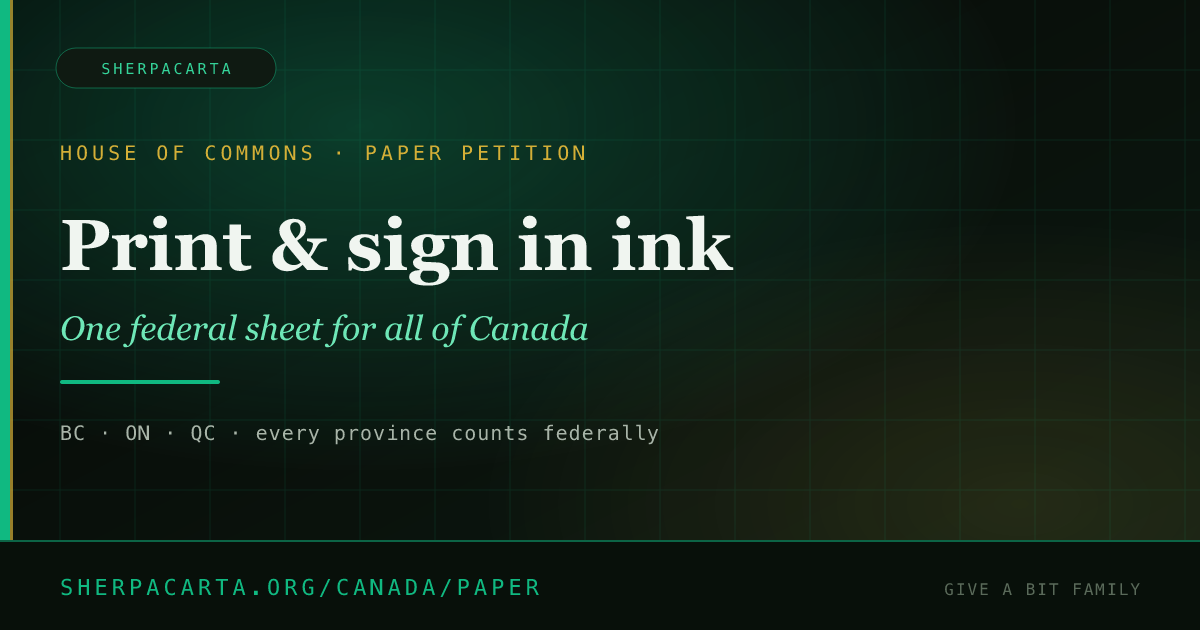
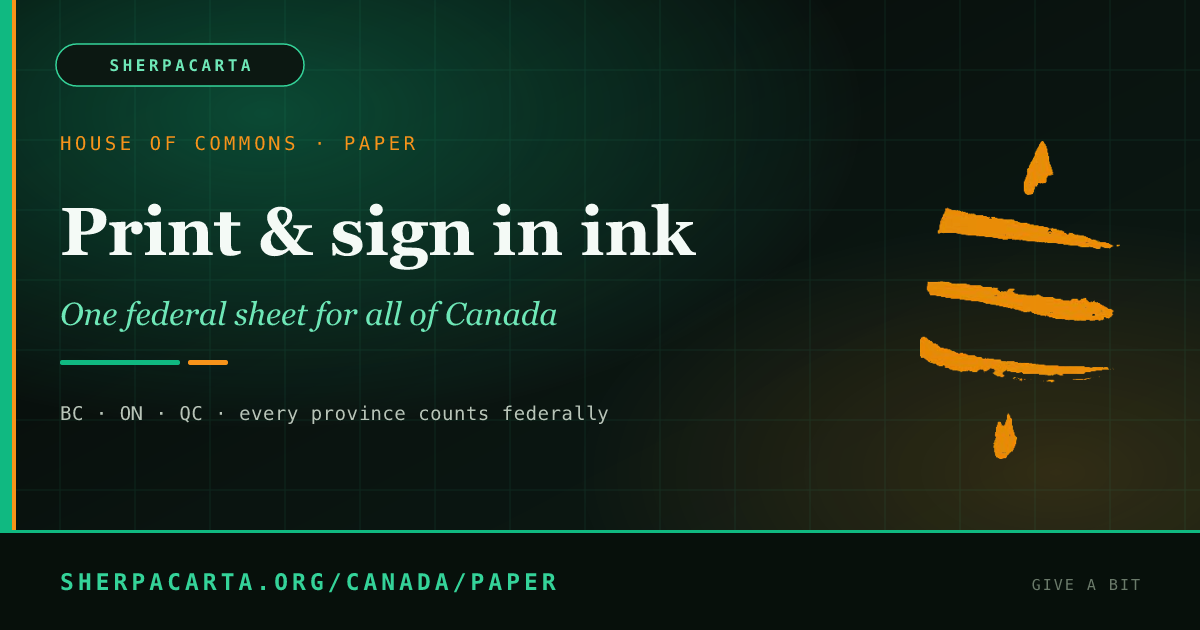
feat: compelling OG/Twitter social cards with brand mark
Regenerate 1200×630 cards (incl. discuss.png for /nostr), embed brand
mark, bump cache-bust v=740, apply summary_large_image meta on all pages
so X/WhatsApp/Telegram show a full image preview when sharing.

diff --git a/public/nostr.html b/public/nostr.html
@@ -4,16 +4,34 @@
 <meta charset="UTF-8">
 <meta name="viewport" content="width=device-width, initial-scale=1.0">
 <title>Public discussion — Nostr + X #Sherpacarta — SherpaCarta</title>
-<meta name="description" content="Live public discussion on Nostr and X #Sherpacarta. Follow @give_bit · sherpa@giveabit.io. Toward Canada’s official e-petition path.">
+<!-- ═══ SOCIAL PREVIEW META (auto) ═══ -->
+<meta property="og:type" content="website">
+<meta property="og:site_name" content="SherpaCarta">
+<meta property="og:locale" content="en_CA">
+<meta property="og:url" content="https://sherpacarta.org/nostr">
+<meta property="og:title" content="Public discussion — Nostr + X #Sherpacarta">
+<meta property="og:description" content="Live walls on Nostr and X. Follow @give_bit · sherpa@giveabit.io · #Sherpacarta. Digital rights in the public square.">
+<meta property="og:image" content="https://sherpacarta.org/og/discuss.png?v=740">
+<meta property="og:image:secure_url" content="https://sherpacarta.org/og/discuss.png?v=740">
+<meta property="og:image:type" content="image/png">
+<meta property="og:image:width" content="1200">
+<meta property="og:image:height" content="630">
+<meta property="og:image:alt" content="Public discussion — Nostr + X #Sherpacarta">
+<meta name="twitter:card" content="summary_large_image">
+<meta name="twitter:site" content="@give_bit">
+<meta name="twitter:creator" content="@give_bit">
+<meta name="twitter:url" content="https://sherpacarta.org/nostr">
+<meta name="twitter:title" content="Public discussion — Nostr + X #Sherpacarta">
+<meta name="twitter:description" content="Live walls on Nostr and X. Follow @give_bit · sherpa@giveabit.io · #Sherpacarta. Digital rights in the public square.">
+<meta name="twitter:image" content="https://sherpacarta.org/og/discuss.png?v=740">
+<meta name="twitter:image:alt" content="Public discussion — Nostr + X #Sherpacarta">
+<meta name="description" content="Live walls on Nostr and X. Follow @give_bit · sherpa@giveabit.io · #Sherpacarta. Digital rights in the public square.">
+<!-- ═══ /SOCIAL PREVIEW META ═══ -->
 <meta name="theme-color" content="#050806">
 <link rel="icon" href="/favicon.png?v=739" type="image/png" sizes="48x48">
 <link rel="icon" href="/brand-mark.png?v=739" type="image/png" sizes="any">
 <link rel="apple-touch-icon" href="/apple-touch-icon.png?v=739">
 <link rel="canonical" href="https://sherpacarta.org/nostr">
-<meta property="og:title" content="Public discussion — Nostr + X #Sherpacarta">
-<meta property="og:description" content="Live walls on Nostr and X. Follow @give_bit · sherpa@giveabit.io · #Sherpacarta">
-<meta property="og:url" content="https://sherpacarta.org/nostr">
-<meta property="og:image" content="https://sherpacarta.org/og/default.png?v=724">
 <link rel="stylesheet" href="/fonts/fonts.css?v=740">
 <link rel="stylesheet" href="/vendor/fontawesome/css/all.min.css?v=740">
 <link rel="stylesheet" href="/sc-main.css?v=740">

diff --git a/public/treasury.html b/public/treasury.html
@@ -4,16 +4,29 @@
 <meta charset="UTF-8">
 <meta name="viewport" content="width=device-width, initial-scale=1.0">
 <title>Treasury — Transparent Bitcoin Funding — SherpaCarta</title>
-<meta name="description" content="Bitcoin-funded only. Live on-chain transparency. Lightning balance on HQ wallet sherpacarta; public LNURL pending. No VC, no ads, no government grants.">
+<!-- ═══ SOCIAL PREVIEW META (auto) ═══ -->
 <meta property="og:type" content="website">
 <meta property="og:site_name" content="SherpaCarta">
-<meta property="og:url" content="https://sherpacarta.org/treasury">
+<meta property="og:locale" content="en_CA">
+<meta property="og:url" content="https://sherpacarta.org/treasury.html">
 <meta property="og:title" content="Treasury — SherpaCarta">
-<meta property="og:description" content="Bitcoin-funded only. Live on-chain transparency. No VC, no ads, no government grants.">
-<meta property="og:image" content="https://sherpacarta.org/og/treasury.png?v=731">
+<meta property="og:description" content="Bitcoin-funded only. Live on-chain transparency. No VC, no ads, no government grants. Fund digital human rights.">
+<meta property="og:image" content="https://sherpacarta.org/og/treasury.png?v=740">
+<meta property="og:image:secure_url" content="https://sherpacarta.org/og/treasury.png?v=740">
+<meta property="og:image:type" content="image/png">
+<meta property="og:image:width" content="1200">
+<meta property="og:image:height" content="630">
+<meta property="og:image:alt" content="Treasury — SherpaCarta">
 <meta name="twitter:card" content="summary_large_image">
+<meta name="twitter:site" content="@give_bit">
+<meta name="twitter:creator" content="@give_bit">
+<meta name="twitter:url" content="https://sherpacarta.org/treasury.html">
 <meta name="twitter:title" content="Treasury — SherpaCarta">
-<meta name="twitter:image" content="https://sherpacarta.org/og/treasury.png?v=731">
+<meta name="twitter:description" content="Bitcoin-funded only. Live on-chain transparency. No VC, no ads, no government grants. Fund digital human rights.">
+<meta name="twitter:image" content="https://sherpacarta.org/og/treasury.png?v=740">
+<meta name="twitter:image:alt" content="Treasury — SherpaCarta">
+<meta name="description" content="Bitcoin-funded only. Live on-chain transparency. No VC, no ads, no government grants. Fund digital human rights.">
+<!-- ═══ /SOCIAL PREVIEW META ═══ -->
 <link rel="canonical" href="https://sherpacarta.org/treasury">
 <meta name="theme-color" content="#050806">
 <link rel="icon" href="/favicon.png?v=738" type="image/png" sizes="48x48">

diff --git a/public/status.html b/public/status.html
@@ -4,16 +4,29 @@
 <meta charset="UTF-8">
 <meta name="viewport" content="width=device-width, initial-scale=1.0">
 <title>System Status — SherpaCarta</title>
-<meta name="description" content="Live connectivity checks for SherpaCarta pages, APIs, charter hash, Canada petition, and funding rails. Zero tracking.">
+<!-- ═══ SOCIAL PREVIEW META (auto) ═══ -->
 <meta property="og:type" content="website">
 <meta property="og:site_name" content="SherpaCarta">
-<meta property="og:url" content="https://sherpacarta.org/status">
+<meta property="og:locale" content="en_CA">
+<meta property="og:url" content="https://sherpacarta.org/status.html">
 <meta property="og:title" content="Status — SherpaCarta">
-<meta property="og:description" content="Live service checks for the Global Digital Magna Carta.">
-<meta property="og:image" content="https://sherpacarta.org/og/default.png?v=731">
+<meta property="og:description" content="Service status for the SherpaCarta Global Digital Magna Carta.">
+<meta property="og:image" content="https://sherpacarta.org/og/default.png?v=740">
+<meta property="og:image:secure_url" content="https://sherpacarta.org/og/default.png?v=740">
+<meta property="og:image:type" content="image/png">
+<meta property="og:image:width" content="1200">
+<meta property="og:image:height" content="630">
+<meta property="og:image:alt" content="Status — SherpaCarta">
 <meta name="twitter:card" content="summary_large_image">
+<meta name="twitter:site" content="@give_bit">
+<meta name="twitter:creator" content="@give_bit">
+<meta name="twitter:url" content="https://sherpacarta.org/status.html">
 <meta name="twitter:title" content="Status — SherpaCarta">
-<meta name="twitter:image" content="https://sherpacarta.org/og/default.png?v=731">
+<meta name="twitter:description" content="Service status for the SherpaCarta Global Digital Magna Carta.">
+<meta name="twitter:image" content="https://sherpacarta.org/og/default.png?v=740">
+<meta name="twitter:image:alt" content="Status — SherpaCarta">
+<meta name="description" content="Service status for the SherpaCarta Global Digital Magna Carta.">
+<!-- ═══ /SOCIAL PREVIEW META ═══ -->
 <link rel="canonical" href="https://sherpacarta.org/status">
 <meta name="theme-color" content="#050806">
 <link rel="stylesheet" href="/fonts/fonts.css?v=731">

diff --git a/index.html b/index.html
@@ -11,8 +11,8 @@
 <meta property="og:url" content="https://sherpacarta.org/">
 <meta property="og:title" content="SherpaCarta — The Global Digital Magna Carta">
 <meta property="og:description" content="114 living articles protecting privacy, data sovereignty, and freedom online for every person on Earth. Zero tracking. Bitcoin-funded. Sign the charter.">
-<meta property="og:image" content="https://sherpacarta.org/og/default.png?v=724">
-<meta property="og:image:secure_url" content="https://sherpacarta.org/og/default.png?v=724">
+<meta property="og:image" content="https://sherpacarta.org/og/default.png?v=740">
+<meta property="og:image:secure_url" content="https://sherpacarta.org/og/default.png?v=740">
 <meta property="og:image:type" content="image/png">
 <meta property="og:image:width" content="1200">
 <meta property="og:image:height" content="630">
@@ -23,10 +23,11 @@
 <meta name="twitter:url" content="https://sherpacarta.org/">
 <meta name="twitter:title" content="SherpaCarta — The Global Digital Magna Carta">
 <meta name="twitter:description" content="114 living articles protecting privacy, data sovereignty, and freedom online for every person on Earth. Zero tracking. Bitcoin-funded. Sign the charter.">
-<meta name="twitter:image" content="https://sherpacarta.org/og/default.png?v=724">
+<meta name="twitter:image" content="https://sherpacarta.org/og/default.png?v=740">
 <meta name="twitter:image:alt" content="SherpaCarta — The Global Digital Magna Carta">
 <meta name="description" content="114 living articles protecting privacy, data sovereignty, and freedom online for every person on Earth. Zero tracking. Bitcoin-funded. Sign the charter.">
 <!-- ═══ /SOCIAL PREVIEW META ═══ -->
+<!-- ═══ SOCIAL PREVIEW META (auto) ═══ -->
 <!-- ═══ SEO META ═══════════════════════════════════════════ -->
 <meta name="keywords" content="digital rights, privacy, data sovereignty, magna carta, human rights, internet freedom, GDPR, surveillance, SherpaCarta">
 <meta name="author" content="SherpaCarta Global Movement">

diff --git a/public/canada/index.html b/public/canada/index.html
@@ -11,8 +11,8 @@
 <meta property="og:url" content="https://sherpacarta.org/canada/">
 <meta property="og:title" content="Canada Digital Rights Petition — SherpaCarta">
 <meta property="og:description" content="Sign the campaign, print the federal Commons sheet, or prepare the official e-petition path. Canadian citizens &amp; residents · no ID · no minimum age.">
-<meta property="og:image" content="https://sherpacarta.org/og/canada.png?v=724">
-<meta property="og:image:secure_url" content="https://sherpacarta.org/og/canada.png?v=724">
+<meta property="og:image" content="https://sherpacarta.org/og/canada.png?v=740">
+<meta property="og:image:secure_url" content="https://sherpacarta.org/og/canada.png?v=740">
 <meta property="og:image:type" content="image/png">
 <meta property="og:image:width" content="1200">
 <meta property="og:image:height" content="630">
@@ -23,10 +23,11 @@
 <meta name="twitter:url" content="https://sherpacarta.org/canada/">
 <meta name="twitter:title" content="Canada Digital Rights Petition — SherpaCarta">
 <meta name="twitter:description" content="Sign the campaign, print the federal Commons sheet, or prepare the official e-petition path. Canadian citizens &amp; residents · no ID · no minimum age.">
-<meta name="twitter:image" content="https://sherpacarta.org/og/canada.png?v=724">
+<meta name="twitter:image" content="https://sherpacarta.org/og/canada.png?v=740">
 <meta name="twitter:image:alt" content="Canada Digital Rights Petition — SherpaCarta">
 <meta name="description" content="Sign the campaign, print the federal Commons sheet, or prepare the official e-petition path. Canadian citizens &amp; residents · no ID · no minimum age.">
 <!-- ═══ /SOCIAL PREVIEW META ═══ -->
+<!-- ═══ SOCIAL PREVIEW META (auto) ═══ -->
 <link rel="canonical" href="https://sherpacarta.org/canada/">
 <meta name="theme-color" content="#050806">
 <link rel="icon" href="/favicon.png?v=738" type="image/png" sizes="48x48">

diff --git a/public/briefing.html b/public/briefing.html
@@ -11,8 +11,8 @@
 <meta property="og:url" content="https://sherpacarta.org/briefing.html">
 <meta property="og:title" content="SherpaCarta — Executive Briefing for Decision-Makers">
 <meta property="og:description" content="Two-page print briefing: what SherpaCarta is, why digital rights matter, how it works, Canada petition path, and key links for elected officials.">
-<meta property="og:image" content="https://sherpacarta.org/og/default.png?v=724">
-<meta property="og:image:secure_url" content="https://sherpacarta.org/og/default.png?v=724">
+<meta property="og:image" content="https://sherpacarta.org/og/default.png?v=740">
+<meta property="og:image:secure_url" content="https://sherpacarta.org/og/default.png?v=740">
 <meta property="og:image:type" content="image/png">
 <meta property="og:image:width" content="1200">
 <meta property="og:image:height" content="630">
@@ -23,10 +23,11 @@
 <meta name="twitter:url" content="https://sherpacarta.org/briefing.html">
 <meta name="twitter:title" content="SherpaCarta — Executive Briefing for Decision-Makers">
 <meta name="twitter:description" content="Two-page print briefing: what SherpaCarta is, why digital rights matter, how it works, Canada petition path, and key links for elected officials.">
-<meta name="twitter:image" content="https://sherpacarta.org/og/default.png?v=724">
+<meta name="twitter:image" content="https://sherpacarta.org/og/default.png?v=740">
 <meta name="twitter:image:alt" content="SherpaCarta — Executive Briefing for Decision-Makers">
 <meta name="description" content="Two-page print briefing: what SherpaCarta is, why digital rights matter, how it works, Canada petition path, and key links for elected officials.">
 <!-- ═══ /SOCIAL PREVIEW META ═══ -->
+<!-- ═══ SOCIAL PREVIEW META (auto) ═══ -->
 <meta name="robots" content="index, follow">
 <link rel="canonical" href="https://sherpacarta.org/briefing.html">
 <style>

diff --git a/public/canada/official.html b/public/canada/official.html
@@ -11,8 +11,8 @@
 <meta property="og:url" content="https://sherpacarta.org/canada/official">
 <meta property="og:title" content="Official e-Petition Path — SherpaCarta Canada">
 <meta property="og:description" content="Status of the House of Commons e-petition, MP outreach tools, and federal prayer text. Campaign and paper sheets available now.">
-<meta property="og:image" content="https://sherpacarta.org/og/canada.png?v=724">
-<meta property="og:image:secure_url" content="https://sherpacarta.org/og/canada.png?v=724">
+<meta property="og:image" content="https://sherpacarta.org/og/canada.png?v=740">
+<meta property="og:image:secure_url" content="https://sherpacarta.org/og/canada.png?v=740">
 <meta property="og:image:type" content="image/png">
 <meta property="og:image:width" content="1200">
 <meta property="og:image:height" content="630">
@@ -23,10 +23,11 @@
 <meta name="twitter:url" content="https://sherpacarta.org/canada/official">
 <meta name="twitter:title" content="Official e-Petition Path — SherpaCarta Canada">
 <meta name="twitter:description" content="Status of the House of Commons e-petition, MP outreach tools, and federal prayer text. Campaign and paper sheets available now.">
-<meta name="twitter:image" content="https://sherpacarta.org/og/canada.png?v=724">
+<meta name="twitter:image" content="https://sherpacarta.org/og/canada.png?v=740">
 <meta name="twitter:image:alt" content="Official e-Petition Path — SherpaCarta Canada">
 <meta name="description" content="Status of the House of Commons e-petition, MP outreach tools, and federal prayer text. Campaign and paper sheets available now.">
 <!-- ═══ /SOCIAL PREVIEW META ═══ -->
+<!-- ═══ SOCIAL PREVIEW META (auto) ═══ -->
 <link rel="canonical" href="https://sherpacarta.org/canada/official">
 <link rel="stylesheet" href="/fonts/fonts.css?v=730">
 <link rel="stylesheet" href="/vendor/fontawesome/css/all.min.css?v=730">

diff --git a/public/canada/bc/index.html b/public/canada/bc/index.html
@@ -11,8 +11,8 @@
 <meta property="og:url" content="https://sherpacarta.org/canada/bc/">
 <meta property="og:title" content="BC Digital Rights Challenge — SherpaCarta">
 <meta property="og:description" content="British Columbia is the beachhead. Federal petition signatures from BC already count for Canada. Organize · print · sign.">
-<meta property="og:image" content="https://sherpacarta.org/og/canada.png?v=724">
-<meta property="og:image:secure_url" content="https://sherpacarta.org/og/canada.png?v=724">
+<meta property="og:image" content="https://sherpacarta.org/og/canada.png?v=740">
+<meta property="og:image:secure_url" content="https://sherpacarta.org/og/canada.png?v=740">
 <meta property="og:image:type" content="image/png">
 <meta property="og:image:width" content="1200">
 <meta property="og:image:height" content="630">
@@ -23,10 +23,11 @@
 <meta name="twitter:url" content="https://sherpacarta.org/canada/bc/">
 <meta name="twitter:title" content="BC Digital Rights Challenge — SherpaCarta">
 <meta name="twitter:description" content="British Columbia is the beachhead. Federal petition signatures from BC already count for Canada. Organize · print · sign.">
-<meta name="twitter:image" content="https://sherpacarta.org/og/canada.png?v=724">
+<meta name="twitter:image" content="https://sherpacarta.org/og/canada.png?v=740">
 <meta name="twitter:image:alt" content="BC Digital Rights Challenge — SherpaCarta">
 <meta name="description" content="British Columbia is the beachhead. Federal petition signatures from BC already count for Canada. Organize · print · sign.">
 <!-- ═══ /SOCIAL PREVIEW META ═══ -->
+<!-- ═══ SOCIAL PREVIEW META (auto) ═══ -->
 <link rel="canonical" href="https://sherpacarta.org/canada/bc/">
 <link rel="stylesheet" href="/sc-main.css?v=730">
 <link rel="stylesheet" href="https://cdnjs.cloudflare.com/ajax/libs/font-awesome/6.6.0/css/all.min.css">

diff --git a/public/canada/sign.html b/public/canada/sign.html
@@ -11,8 +11,8 @@
 <meta property="og:url" content="https://sherpacarta.org/canada/sign">
 <meta property="og:title" content="Sign for Canada — SherpaCarta Campaign">
 <meta property="og:description" content="30-second campaign commitment for digital human rights. Privacy-first receipt. Not the Parliamentary e-petition until an MP authorizes e-###.">
-<meta property="og:image" content="https://sherpacarta.org/og/sign.png?v=724">
-<meta property="og:image:secure_url" content="https://sherpacarta.org/og/sign.png?v=724">
+<meta property="og:image" content="https://sherpacarta.org/og/sign.png?v=740">
+<meta property="og:image:secure_url" content="https://sherpacarta.org/og/sign.png?v=740">
 <meta property="og:image:type" content="image/png">
 <meta property="og:image:width" content="1200">
 <meta property="og:image:height" content="630">
@@ -23,10 +23,11 @@
 <meta name="twitter:url" content="https://sherpacarta.org/canada/sign">
 <meta name="twitter:title" content="Sign for Canada — SherpaCarta Campaign">
 <meta name="twitter:description" content="30-second campaign commitment for digital human rights. Privacy-first receipt. Not the Parliamentary e-petition until an MP authorizes e-###.">
-<meta name="twitter:image" content="https://sherpacarta.org/og/sign.png?v=724">
+<meta name="twitter:image" content="https://sherpacarta.org/og/sign.png?v=740">
 <meta name="twitter:image:alt" content="Sign for Canada — SherpaCarta Campaign">
 <meta name="description" content="30-second campaign commitment for digital human rights. Privacy-first receipt. Not the Parliamentary e-petition until an MP authorizes e-###.">
 <!-- ═══ /SOCIAL PREVIEW META ═══ -->
+<!-- ═══ SOCIAL PREVIEW META (auto) ═══ -->
 <link rel="canonical" href="https://sherpacarta.org/canada/sign">
 <meta name="theme-color" content="#050806">
 <link rel="stylesheet" href="/fonts/fonts.css?v=730">

diff --git a/public/comparison.html b/public/comparison.html
@@ -11,8 +11,8 @@
 <meta property="og:url" content="https://sherpacarta.org/comparison.html">
 <meta property="og:title" content="SherpaCarta vs Magna Carta vs GDPR — Comparison">
 <meta property="og:description" content="How the Global Digital Magna Carta extends 1215, Iceland 2011, and modern privacy law into the AI era.">
-<meta property="og:image" content="https://sherpacarta.org/og/default.png?v=724">
-<meta property="og:image:secure_url" content="https://sherpacarta.org/og/default.png?v=724">
+<meta property="og:image" content="https://sherpacarta.org/og/default.png?v=740">
+<meta property="og:image:secure_url" content="https://sherpacarta.org/og/default.png?v=740">
 <meta property="og:image:type" content="image/png">
 <meta property="og:image:width" content="1200">
 <meta property="og:image:height" content="630">
@@ -23,10 +23,11 @@
 <meta name="twitter:url" content="https://sherpacarta.org/comparison.html">
 <meta name="twitter:title" content="SherpaCarta vs Magna Carta vs GDPR — Comparison">
 <meta name="twitter:description" content="How the Global Digital Magna Carta extends 1215, Iceland 2011, and modern privacy law into the AI era.">
-<meta name="twitter:image" content="https://sherpacarta.org/og/default.png?v=724">
+<meta name="twitter:image" content="https://sherpacarta.org/og/default.png?v=740">
 <meta name="twitter:image:alt" content="SherpaCarta vs Magna Carta vs GDPR — Comparison">
 <meta name="description" content="How the Global Digital Magna Carta extends 1215, Iceland 2011, and modern privacy law into the AI era.">
 <!-- ═══ /SOCIAL PREVIEW META ═══ -->
+<!-- ═══ SOCIAL PREVIEW META (auto) ═══ -->
 <link rel="canonical" href="https://sherpacarta.org/comparison.html">
 <style>
   body{font-family:system-ui,sans-serif;max-width:900px;margin:2rem auto;padding:1rem 1.5rem;line-height:1.6;background:#060a06;color:#e8ede8}

diff --git a/public/canada/paper.html b/public/canada/paper.html
@@ -11,8 +11,8 @@
 <meta property="og:url" content="https://sherpacarta.org/canada/paper">
 <meta property="og:title" content="Print Federal Petition Sheet — SherpaCarta Canada">
 <meta property="og:description" content="One House of Commons sheet for all of Canada. Every province counts. Original ink · QR to join online · MP presents.">
-<meta property="og:image" content="https://sherpacarta.org/og/paper.png?v=724">
-<meta property="og:image:secure_url" content="https://sherpacarta.org/og/paper.png?v=724">
+<meta property="og:image" content="https://sherpacarta.org/og/paper.png?v=740">
+<meta property="og:image:secure_url" content="https://sherpacarta.org/og/paper.png?v=740">
 <meta property="og:image:type" content="image/png">
 <meta property="og:image:width" content="1200">
 <meta property="og:image:height" content="630">
@@ -23,10 +23,11 @@
 <meta name="twitter:url" content="https://sherpacarta.org/canada/paper">
 <meta name="twitter:title" content="Print Federal Petition Sheet — SherpaCarta Canada">
 <meta name="twitter:description" content="One House of Commons sheet for all of Canada. Every province counts. Original ink · QR to join online · MP presents.">
-<meta name="twitter:image" content="https://sherpacarta.org/og/paper.png?v=724">
+<meta name="twitter:image" content="https://sherpacarta.org/og/paper.png?v=740">
 <meta name="twitter:image:alt" content="Print Federal Petition Sheet — SherpaCarta Canada">
 <meta name="description" content="One House of Commons sheet for all of Canada. Every province counts. Original ink · QR to join online · MP presents.">
 <!-- ═══ /SOCIAL PREVIEW META ═══ -->
+<!-- ═══ SOCIAL PREVIEW META (auto) ═══ -->
 <link rel="canonical" href="https://sherpacarta.org/canada/paper">
 <meta name="theme-color" content="#050806">
 <link rel="stylesheet" href="/fonts/fonts.css?v=730">

diff --git a/public/security.html b/public/security.html
@@ -11,8 +11,8 @@
 <meta property="og:url" content="https://sherpacarta.org/security.html">
 <meta property="og:title" content="Security &amp; Bug Bounty — SherpaCarta">
 <meta property="og:description" content="Privacy by design. Open source. Responsible disclosure and bug bounty for the Global Digital Magna Carta.">
-<meta property="og:image" content="https://sherpacarta.org/og/security.png?v=724">
-<meta property="og:image:secure_url" content="https://sherpacarta.org/og/security.png?v=724">
+<meta property="og:image" content="https://sherpacarta.org/og/security.png?v=740">
+<meta property="og:image:secure_url" content="https://sherpacarta.org/og/security.png?v=740">
 <meta property="og:image:type" content="image/png">
 <meta property="og:image:width" content="1200">
 <meta property="og:image:height" content="630">
@@ -23,10 +23,11 @@
 <meta name="twitter:url" content="https://sherpacarta.org/security.html">
 <meta name="twitter:title" content="Security &amp; Bug Bounty — SherpaCarta">
 <meta name="twitter:description" content="Privacy by design. Open source. Responsible disclosure and bug bounty for the Global Digital Magna Carta.">
-<meta name="twitter:image" content="https://sherpacarta.org/og/security.png?v=724">
+<meta name="twitter:image" content="https://sherpacarta.org/og/security.png?v=740">
 <meta name="twitter:image:alt" content="Security &amp; Bug Bounty — SherpaCarta">
 <meta name="description" content="Privacy by design. Open source. Responsible disclosure and bug bounty for the Global Digital Magna Carta.">
 <!-- ═══ /SOCIAL PREVIEW META ═══ -->
+<!-- ═══ SOCIAL PREVIEW META (auto) ═══ -->
 <link rel="canonical" href="https://sherpacarta.org/security.html">
 <link rel="stylesheet" href="/sc-main.css?v=731">
 <link rel="stylesheet" href="/vendor/fontawesome/css/all.min.css?v=731">
